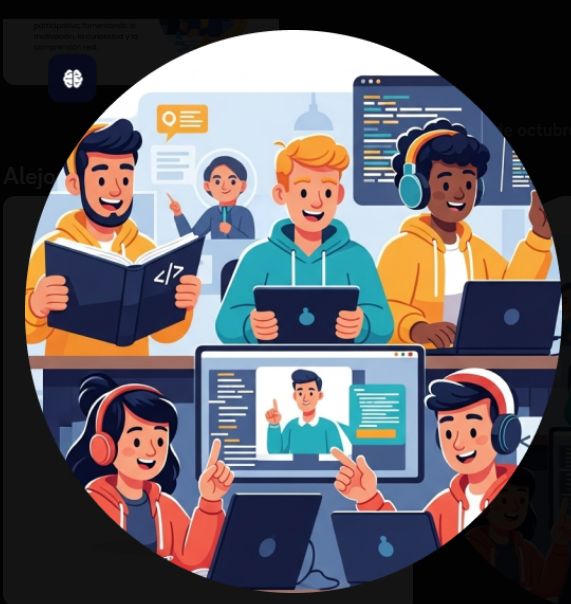
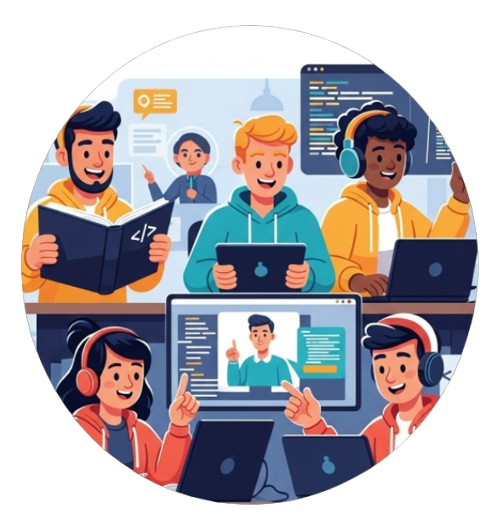
agregue cambios a ala vista mision

diff --git a/src/app/mision/mision.css b/src/app/mision/mision.css
@@ -1,12 +1,19 @@
 .mision-section1{
     background-color: black;
     color: white;
-    padding: 40px 0px;
+    /* padding: 40px 0px; */
+    padding: 6rem 0rem 6rem 0rem;
     display: flex;
     align-items: center;
     justify-content: center;
     flex-wrap: wrap;
+    /* border: solid 1px red; */
 }
+
+.container1{
+    width: 1000px;
+}
+
 .imagen1{
     display: flex;
     align-items: center;
@@ -45,23 +52,21 @@ h1{
 }
 
 .container2{
-    width: 50%;
+    max-width: 1000px;
     display: flex;
     flex-direction: column;
     align-items: center;
     gap: 2rem;
-    
 }
 
 .imagen2 img{
-    width: 350px;
+    width: 30rem;
     height: auto;
     border-radius: 50px;
     margin-right: 40px;
 }
 .misiontexto2{
     /* border: solid 1px red; */
-    width: 80%;
     font-family: Arial, Helvetica, sans-serif;
     display: flex;
     justify-content: center;
